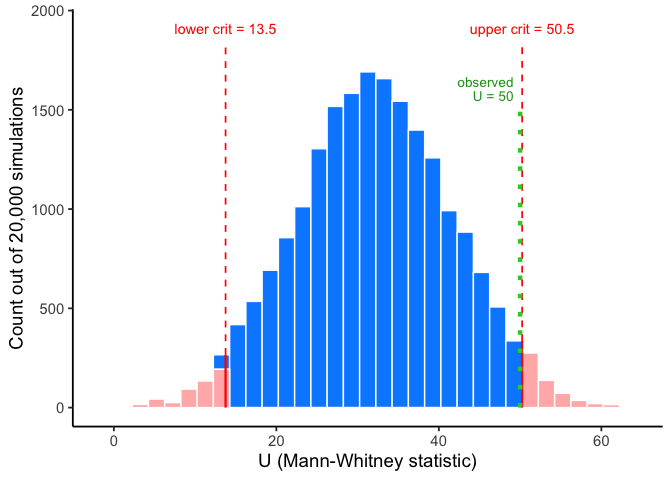
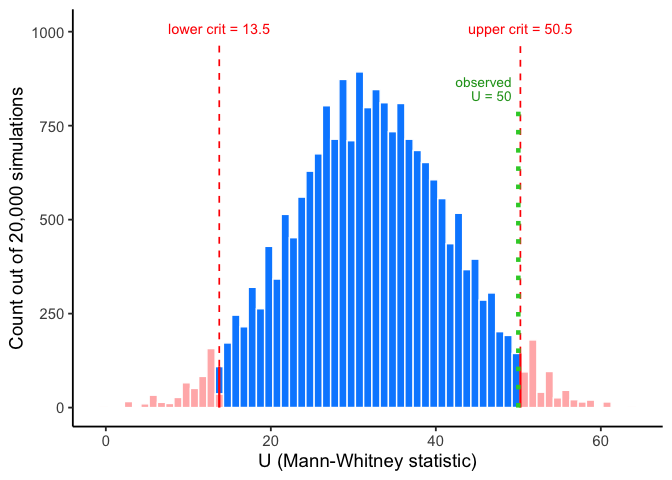
Ch7: null histograms use bins that put both critical lines on bin edges; render Ch7

diff --git a/docs/07-Nonparametric.html b/docs/07-Nonparametric.html
@@ -244,7 +244,7 @@ window.Quarto = {
         <li class="sidebar-item">
   <div class="sidebar-item-container"> 
   <a href="./06-ttests.html" class="sidebar-item-text sidebar-link">
- <span class="menu-text"><span class="chapter-number">6</span>&nbsp; <span class="chapter-title"><span class="math inline">\(t\)</span>-Tests</span></span></a>
+ <span class="menu-text"><span class="chapter-number">6</span>&nbsp; <span class="chapter-title">t-tests</span></span></a>
   </div>
 </li>
         <li class="sidebar-item">
@@ -256,7 +256,7 @@ window.Quarto = {
         <li class="sidebar-item">
   <div class="sidebar-item-container"> 
   <a href="./08-ANOVA.html" class="sidebar-item-text sidebar-link">
- <span class="menu-text"><span class="chapter-number">8</span>&nbsp; <span class="chapter-title">Analysis of Variance (ANOVA)</span></span></a>
+ <span class="menu-text"><span class="chapter-number">8</span>&nbsp; <span class="chapter-title">ANOVA</span></span></a>
   </div>
 </li>
         <li class="sidebar-item">
@@ -1782,13 +1782,13 @@ Wilcoxon, Frank. 1945. <span>“Individual Comparisons by Ranking Methods.”</s
   </script>
 <nav class="page-navigation">
   <div class="nav-page nav-page-previous">
-      <a href="./06-ttests.html" class="pagination-link" aria-label="$t$-Tests">
-        <i class="bi bi-arrow-left-short"></i> <span class="nav-page-text"><span class="chapter-number">6</span>&nbsp; <span class="chapter-title"><span class="math inline">\(t\)</span>-Tests</span></span>
+      <a href="./06-ttests.html" class="pagination-link" aria-label="t-tests">
+        <i class="bi bi-arrow-left-short"></i> <span class="nav-page-text"><span class="chapter-number">6</span>&nbsp; <span class="chapter-title">t-tests</span></span>
       </a>          
   </div>
   <div class="nav-page nav-page-next">
-      <a href="./08-ANOVA.html" class="pagination-link" aria-label="Analysis of Variance (ANOVA)">
-        <span class="nav-page-text"><span class="chapter-number">8</span>&nbsp; <span class="chapter-title">Analysis of Variance (ANOVA)</span></span> <i class="bi bi-arrow-right-short"></i>
+      <a href="./08-ANOVA.html" class="pagination-link" aria-label="ANOVA">
+        <span class="nav-page-text"><span class="chapter-number">8</span>&nbsp; <span class="chapter-title">ANOVA</span></span> <i class="bi bi-arrow-right-short"></i>
       </a>
   </div>
 </nav>
